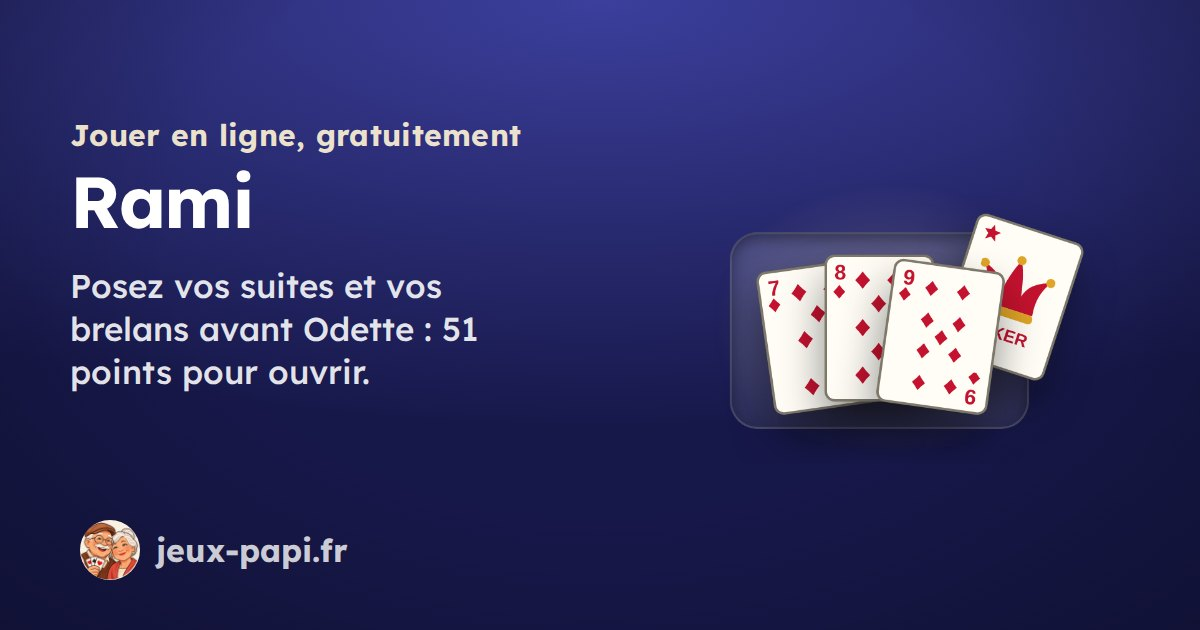
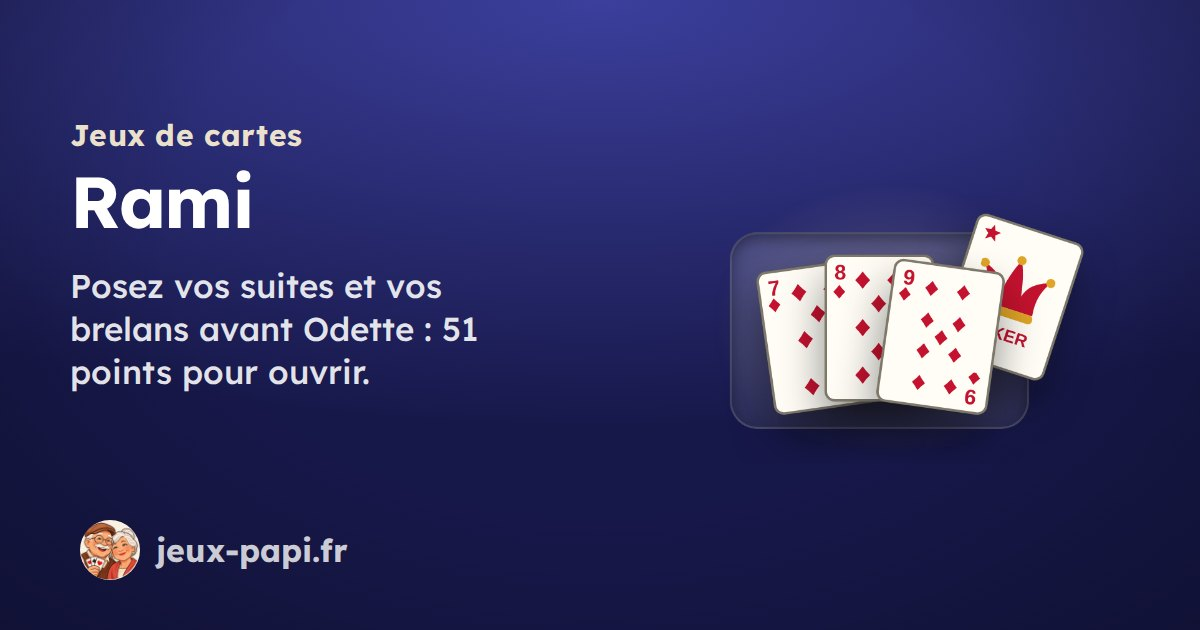
Redraw the library preview with four library drawings and its own words, and name each game's family on its preview

Changed region(s): [[0.0617, 0.181, 0.4317, 0.2413]]

diff --git a/public/golf/index.html b/public/golf/index.html
@@ -13,7 +13,7 @@
 <meta property="og:title" content="Golf miniature · Jeux de Papi">
 <meta property="og:description" content="Jouez neuf trous de golf miniature en trois dimensions, nouveaux à chaque partie. Visez et tapez la balle à votre rythme.">
 <meta property="og:image" content="https://jeux-papi.fr/og/jeux/golf.jpg">
-<meta property="og:image:alt" content="Golf miniature : jouer en ligne, gratuitement, sur Jeux de Papi.">
+<meta property="og:image:alt" content="Golf miniature, sur Jeux de Papi.">
 <meta property="og:image:width" content="1200">
 <meta property="og:image:height" content="630">
 <meta name="twitter:card" content="summary_large_image">

diff --git a/public/huit-americain/index.html b/public/huit-americain/index.html
@@ -13,7 +13,7 @@
 <meta property="og:title" content="Huit américain · Jeux de Papi">
 <meta property="og:description" content="Le huit américain en grand, contre trois joueurs de l'ordinateur. Sans publicité ni compte.">
 <meta property="og:image" content="https://jeux-papi.fr/og/jeux/huit-americain.jpg">
-<meta property="og:image:alt" content="Huit américain : jouer en ligne, gratuitement, sur Jeux de Papi.">
+<meta property="og:image:alt" content="Huit américain, sur Jeux de Papi.">
 <meta property="og:image:width" content="1200">
 <meta property="og:image:height" content="630">
 <meta name="twitter:card" content="summary_large_image">

diff --git a/public/dame-de-pique/index.html b/public/dame-de-pique/index.html
@@ -13,7 +13,7 @@
 <meta property="og:title" content="Dame de pique · Jeux de Papi">
 <meta property="og:description" content="La dame de pique en grand, contre trois joueurs de l'ordinateur. Sans publicité ni compte.">
 <meta property="og:image" content="https://jeux-papi.fr/og/jeux/dame-de-pique.jpg">
-<meta property="og:image:alt" content="Dame de pique : jouer en ligne, gratuitement, sur Jeux de Papi.">
+<meta property="og:image:alt" content="Dame de pique, sur Jeux de Papi.">
 <meta property="og:image:width" content="1200">
 <meta property="og:image:height" content="630">
 <meta name="twitter:card" content="summary_large_image">

diff --git a/public/mots-meles/index.html b/public/mots-meles/index.html
@@ -13,7 +13,7 @@
 <meta property="og:title" content="Mots mêlés · Jeux de Papi">
 <meta property="og:description" content="Les mots mêlés en grand, avec de grandes lettres et trois niveaux. Sans publicité ni compte.">
 <meta property="og:image" content="https://jeux-papi.fr/og/jeux/mots-meles.jpg">
-<meta property="og:image:alt" content="Mots mêlés : jouer en ligne, gratuitement, sur Jeux de Papi.">
+<meta property="og:image:alt" content="Mots mêlés, sur Jeux de Papi.">
 <meta property="og:image:width" content="1200">
 <meta property="og:image:height" content="630">
 <meta name="twitter:card" content="summary_large_image">

diff --git a/public/bataille-navale/index.html b/public/bataille-navale/index.html
@@ -13,7 +13,7 @@
 <meta property="og:title" content="Bataille navale · Jeux de Papi">
 <meta property="og:description" content="La bataille navale en grand, contre l'ordinateur. Sans publicité ni compte.">
 <meta property="og:image" content="https://jeux-papi.fr/og/jeux/bataille-navale.jpg">
-<meta property="og:image:alt" content="Bataille navale : jouer en ligne, gratuitement, sur Jeux de Papi.">
+<meta property="og:image:alt" content="Bataille navale, sur Jeux de Papi.">
 <meta property="og:image:width" content="1200">
 <meta property="og:image:height" content="630">
 <meta name="twitter:card" content="summary_large_image">

diff --git a/public/billard/index.html b/public/billard/index.html
@@ -13,7 +13,7 @@
 <meta property="og:title" content="Billard américain · Jeux de Papi">
 <meta property="og:description" content="Le billard du café, contre René : rentrez vos sept billes, puis la noire.">
 <meta property="og:image" content="https://jeux-papi.fr/og/jeux/billard.jpg">
-<meta property="og:image:alt" content="Billard américain : jouer en ligne, gratuitement, sur Jeux de Papi.">
+<meta property="og:image:alt" content="Billard américain, sur Jeux de Papi.">
 <meta property="og:image:width" content="1200">
 <meta property="og:image:height" content="630">
 <meta name="twitter:card" content="summary_large_image">

diff --git a/public/petits-chevaux/index.html b/public/petits-chevaux/index.html
@@ -13,7 +13,7 @@
 <meta property="og:title" content="Petits chevaux · Jeux de Papi">
 <meta property="og:description" content="Les petits chevaux en grand, contre l'ordinateur. Sans publicité ni compte.">
 <meta property="og:image" content="https://jeux-papi.fr/og/jeux/petits-chevaux.jpg">
-<meta property="og:image:alt" content="Petits chevaux : jouer en ligne, gratuitement, sur Jeux de Papi.">
+<meta property="og:image:alt" content="Petits chevaux, sur Jeux de Papi.">
 <meta property="og:image:width" content="1200">
 <meta property="og:image:height" content="630">
 <meta name="twitter:card" content="summary_large_image">

diff --git a/public/solitaire/index.html b/public/solitaire/index.html
@@ -13,7 +13,7 @@
 <meta property="og:title" content="Solitaire · Jeux de Papi">
 <meta property="og:description" content="Le solitaire classique en grand. Toutes les parties ont une solution. Sans publicité ni compte.">
 <meta property="og:image" content="https://jeux-papi.fr/og/jeux/solitaire.jpg">
-<meta property="og:image:alt" content="Solitaire : jouer en ligne, gratuitement, sur Jeux de Papi.">
+<meta property="og:image:alt" content="Solitaire, sur Jeux de Papi.">
 <meta property="og:image:width" content="1200">
 <meta property="og:image:height" content="630">
 <meta name="twitter:card" content="summary_large_image">

diff --git a/public/paires/index.html b/public/paires/index.html
@@ -13,7 +13,7 @@
 <meta property="og:title" content="Jeu des paires · Jeux de Papi">
 <meta property="og:description" content="Le jeu des paires en grand, pour exercer sa mémoire. Sans publicité ni compte.">
 <meta property="og:image" content="https://jeux-papi.fr/og/jeux/paires.jpg">
-<meta property="og:image:alt" content="Jeu des paires : jouer en ligne, gratuitement, sur Jeux de Papi.">
+<meta property="og:image:alt" content="Jeu des paires, sur Jeux de Papi.">
 <meta property="og:image:width" content="1200">
 <meta property="og:image:height" content="630">
 <meta name="twitter:card" content="summary_large_image">

diff --git a/public/belote/index.html b/public/belote/index.html
@@ -13,7 +13,7 @@
 <meta property="og:title" content="Belote · Jeux de Papi">
 <meta property="og:description" content="La belote en grand, avec un partenaire contre deux joueurs de l'ordinateur. Sans publicité ni compte.">
 <meta property="og:image" content="https://jeux-papi.fr/og/jeux/belote.jpg">
-<meta property="og:image:alt" content="Belote : jouer en ligne, gratuitement, sur Jeux de Papi.">
+<meta property="og:image:alt" content="Belote, sur Jeux de Papi.">
 <meta property="og:image:width" content="1200">
 <meta property="og:image:height" content="630">
 <meta name="twitter:card" content="summary_large_image">

diff --git a/public/demineur/index.html b/public/demineur/index.html
@@ -13,7 +13,7 @@
 <meta property="og:title" content="Démineur · Jeux de Papi">
 <meta property="og:description" content="Le démineur en grand. Chaque partie se gagne sans deviner. Sans publicité ni compte.">
 <meta property="og:image" content="https://jeux-papi.fr/og/jeux/demineur.jpg">
-<meta property="og:image:alt" content="Démineur : jouer en ligne, gratuitement, sur Jeux de Papi.">
+<meta property="og:image:alt" content="Démineur, sur Jeux de Papi.">
 <meta property="og:image:width" content="1200">
 <meta property="og:image:height" content="630">
 <meta name="twitter:card" content="summary_large_image">

diff --git a/public/morpion/index.html b/public/morpion/index.html
@@ -13,7 +13,7 @@
 <meta property="og:title" content="Morpion · Jeux de Papi">
 <meta property="og:description" content="Le morpion en grand, avec de grandes cases, contre l'ordinateur. Sans publicité ni compte.">
 <meta property="og:image" content="https://jeux-papi.fr/og/jeux/morpion.jpg">
-<meta property="og:image:alt" content="Morpion : jouer en ligne, gratuitement, sur Jeux de Papi.">
+<meta property="og:image:alt" content="Morpion, sur Jeux de Papi.">
 <meta property="og:image:width" content="1200">
 <meta property="og:image:height" content="630">
 <meta name="twitter:card" content="summary_large_image">
